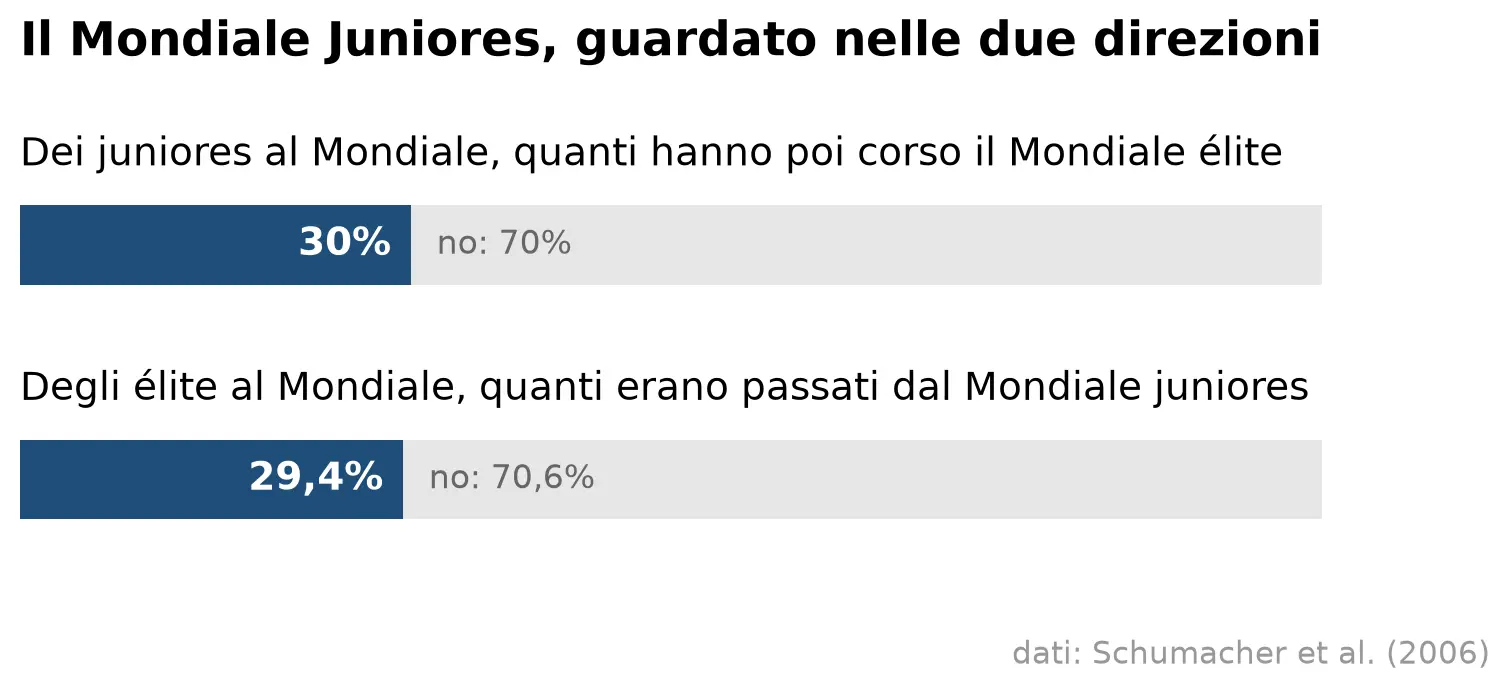
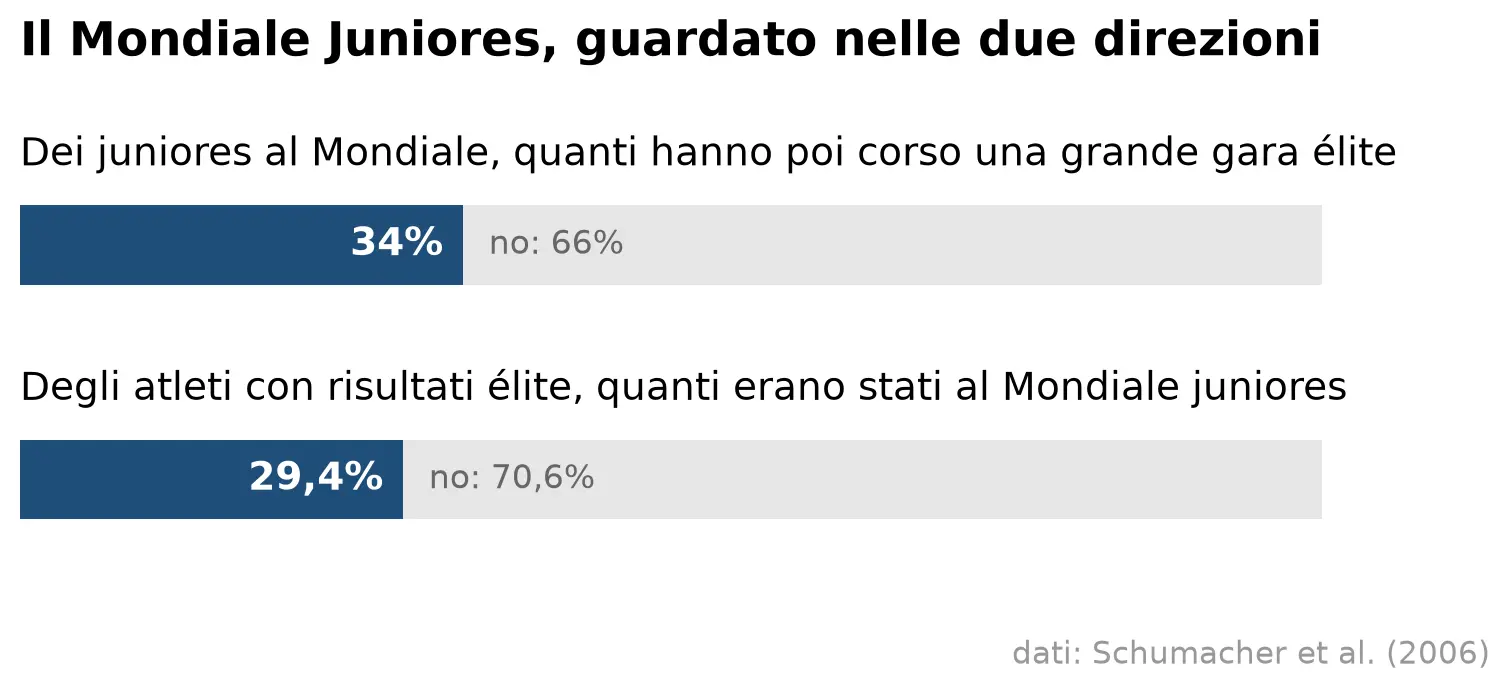
Revisione blog 1

Changed region(s): [[0.0934, 0.5166, 0.9026, 0.5774], [0.6536, 0.1823, 0.9338, 0.2431], [0.1868, 0.2735, 0.4358, 0.4255]]

diff --git a/content/blog/ciclismo-giovanile-cosa-sappiamo-gia.md b/content/blog/ciclismo-giovanile-cosa-sappiamo-gia.md
@@ -2,7 +2,7 @@
 lang: it
 locale: it_IT
 title: "Ciclismo giovanile e professionismo: cosa sappiamo già, e cosa no"
-description: "Vent'anni di studi sul passaggio dal ciclismo giovanile al professionismo: sette predestinati su dieci non arrivano, e sette arrivati su dieci non lo erano."
+description: "Vent'anni di studi sul passaggio dal ciclismo giovanile al professionismo: due predestinati su tre non arrivano, e sette arrivati su dieci non lo erano."
 date: 2026-09-07T10:00:00+02:00
 draft: true
 series: ["Ciclismo giovanile e professionismo"]
@@ -30,35 +30,37 @@ cover:
 
 *Questa serie parla dei ranking giovanili italiani e del passaggio al professionismo. Prima di tirare fuori i miei numeri mi sembrava giusto raccontare cosa la ricerca sa già, perché in vent'anni qualche risposta è arrivata, ed è abbastanza diversa da quella che si sente ripetere ai bordi delle strade.*
 
-Ai Mondiali juniores su strada ogni nazione porta **sei corridori**. Sei, su tutti i diciassettenni e diciottenni tesserati in quel paese, e chi ha corso da Juniores ricorda benissimo quanto sia difficile strappare una convocazione. Se arrivi a quella linea di partenza vuol dire che hai superato ogni selezione che il ciclismo giovanile riesca a mettere in piedi: più predestinato di così non si può.
+Al Mondiale juniores su strada ogni nazione porta una manciata di corridori: al massimo **sei**, e ci arrivano solo le nazioni in cima al ranking, mentre le altre ne portano meno. Una manciata su tutti i diciassettenni e diciottenni tesserati in quel paese, e chi ha corso da Juniores ricorda benissimo quanto sia difficile strappare una convocazione. Se arrivi a quella linea di partenza vuol dire che hai superato ogni selezione che il ciclismo giovanile riesca a mettere in piedi: più predestinato di così non si può.
 
 Eppure anche vincerla, quella gara, non è una garanzia di niente. Da quando esiste il Mondiale juniores su strada, **solo tre corridori hanno vinto sia quello sia il Mondiale élite**: Greg LeMond (juniores nel 1979, élite nel 1983 e nel 1989), Mathieu van der Poel (juniores nel 2013, élite nel 2023) e Remco Evenepoel, che è anche il corridore sul podio nella foto di copertina di questo articolo, scattata proprio ai Mondiali juniores di Innsbruck del 2018, l'anno in cui li vinse. Il suo Mondiale élite sarebbe arrivato quattro anni dopo, nel 2022.
 
-Nel 2006 un gruppo di ricercatori tedeschi[^schumacher] ha preso gli elenchi dei partecipanti a quei Mondiali e si è messo a seguirli negli anni, per contare quanti fossero poi arrivati a correre il Mondiale da grandi. **Trenta su cento**. Poi hanno guardato la stessa cosa al contrario, partendo dai corridori del Mondiale élite e chiedendosi quanti fossero passati da quello juniores: 29,4 su cento.
+Nel 2006 un gruppo di ricercatori tedeschi[^schumacher] ha raccolto i risultati delle grandi gare di venticinque anni di ciclismo — 27 454 risultati di 8 004 atleti di 108 paesi, dal 1980 al 2004, e non solo su strada — e ha guardato la stessa storia dai due lati. In avanti: dei ragazzi passati dal Mondiale juniores, quanti hanno poi corso una grande gara fra i grandi? **Trentaquattro su cento**. All'indietro: fra gli atleti con risultati nelle grandi gare élite, quanti erano passati dal Mondiale juniores? 29,4 su cento.
 
-Le due percentuali si somigliano per caso, però messe insieme dicono una cosa sola, e non è una cosa comoda. Andare forte da ragazzi non è indispensabile per arrivare, e non basta neanche lontanamente a garantirtelo. **Sette predestinati su dieci non ce la fanno, e sette arrivati su dieci non erano predestinati.** È il risultato più solido di tutta la ricerca sul tema ed è anche il più vecchio, visto che da allora nessuno è riuscito a smentirlo.
+Le due cifre rispondono a domande opposte e non misurano la stessa cosa, ma messe insieme dicono qualcosa che non è comodo. Andare forte da ragazzi non è indispensabile per arrivare in alto, e non basta neanche lontanamente a garantirtelo: **due predestinati su tre non correranno mai una grande gara da grandi, e sette su dieci di quelli che ci arrivano da quel Mondiale non erano passati**. È il risultato più replicato di tutta la ricerca sul tema ed è anche il più vecchio, e negli studi che ho letto nessuno lo ha smentito.
 
 {{< figure
   src="mondiale_juniores_2006.webp"
   alt="Due barre orizzontali, una per ciascuna direzione del confronto, riempite per circa un terzo, con la domanda scritta sopra ciascuna."
-  caption="Le due percentuali rispondono a domande opposte e si somigliano: sette predestinati su dieci non arrivano, e sette arrivati su dieci non erano predestinati."
+  caption="Le due percentuali rispondono a domande opposte, e nessuna delle due arriva a un terzo: la maggioranza resta fuori qualunque sia il lato da cui si guarda."
 >}}
 
 ## Cosa hanno stabilito vent'anni di ricerca
 
-Dal 2006 a oggi la domanda è stata ripresa in Norvegia, in Belgio, in Spagna, in Olanda e due volte in Italia, con dati sempre più grandi. Le conclusioni si assomigliano parecchio, il che nella ricerca è una buona notizia, perché vuol dire che non dipendono da chi ha fatto i conti.
+Dal 2006 a oggi la domanda è stata ripresa in Norvegia, in Belgio, in Spagna, in Olanda e due volte in Italia[^paesi], su campioni molto diversi fra loro — da ottomila atleti a poche decine. Le conclusioni si assomigliano parecchio, il che nella ricerca è una buona notizia, perché vuol dire che non dipendono da chi ha fatto i conti.
 
 Il punto su cui si discute meno è che **i futuri professionisti andassero già meglio degli altri da ragazzi**. Vale in Italia, in Belgio e in Norvegia, misurato da gruppi diversi con metodi diversi, ed è il risultato più replicato del campo.
 
-Il secondo è che **il segnale cresce man mano che ci si avvicina al traguardo**. Lo studio italiano più citato, quello di Gallo e colleghi del 2022 su 1&nbsp;345 corridori delle classifiche federali[^gallo], trova che i punti fatti in gara dicono qualcosa già dagli Allievi, ma dicono sempre di più salendo di categoria, e indica come momento più informativo il primo anno da Under 23.
+Il secondo è che **il segnale cresce man mano che ci si avvicina al traguardo**. Lo studio italiano più citato, quello di Gallo e colleghi del 2022 su 1&nbsp;345 corridori delle classifiche federali[^gallo], trova che i punti fatti in gara dicono qualcosa già dagli Allievi, che è la categoria da cui quello studio parte, ma dicono sempre di più salendo di categoria, e indica come momento più informativo il primo anno da Under 23.
 
-Sotto i quindici anni, invece, il sospetto è che non ci sia niente da vedere. Uno studio belga sui tredici e quattordicenni[^mostaert] ha misurato maturazione, coordinazione e capacità motorie, e ha scoperto che tutto insieme spiegava poco più di un quinto delle differenze fra i ragazzi, con maturità e coordinazione attorno al 5 per cento ciascuna. La lettura che se ne è ricavata è che a quell'età **si stia misurando soprattutto chi si è sviluppato prima**.
+Sotto i quindici anni, invece, il sospetto è che non ci sia niente da vedere. Uno studio belga sui tredici e quattordicenni[^mostaert] ha misurato maturazione, coordinazione, capacità motorie e anche la storia di gare di ciascuno, e ha scoperto che tutto insieme spiegava poco più di un quinto delle differenze nel loro rendimento in gara due o tre anni dopo, con maturità e coordinazione attorno al 5 per cento ciascuna. Un quinto del rendimento a sedici anni, si badi, non delle differenze fra quei ragazzi in generale e tanto meno della loro carriera. La lettura che se ne è ricavata è che a quell'età **si stia misurando soprattutto chi si è sviluppato prima**.
 
-Poi c'è il dato che torna ovunque, cioè che **la stragrande maggioranza di chi va forte da giovane non arriva comunque**: il 30 per cento dello studio tedesco, il 15 per cento degli Allievi italiani che poi faranno punti nel World Tour, i cinque su quarantotto dello studio olandese. Cambiano i paesi e le definizioni, non l'ordine di grandezza.
+Poi c'è il dato che torna ovunque, cioè che **la stragrande maggioranza di chi va forte da giovane non arriva comunque**. Vale la pena elencare i numeri con il loro denominatore attaccato, perché la tentazione di metterli in fila come se misurassero la stessa cosa è forte e porta fuori strada: due su tre dei juniores del Mondiale non correranno una grande gara élite, il 15 per cento dei primi dieci della classifica Allievi italiana ha poi fatto punti nel World Tour[^cesanelli] — e quello studio legge la mia stessa fonte, la stessa classifica di ciclismo.info, solo qualche anno più in su, e cinque su quarantotto di un'intera annata olandese sono arrivati a una squadra Continental o superiore[^hasselaar]. Tre punti di partenza diversi — i convocati, i primi dieci, tutti — e tre traguardi diversi. Quello che si somiglia non è la scala, è la direzione: da qualunque lato si guardi, la maggioranza resta fuori.
 
-Sui test di laboratorio la letteratura è quasi unanime[^menaspa], e vale la pena dirlo perché suona strano: la soglia e i watt per chilo descrivono bene il livello di un ragazzo adesso, ma **non aggiungono niente su dove arriverà**. Uno studio norvegese[^svendsen] ha messo a confronto le due famiglie di predittori sulle stesse persone, e il piazzamento in gara a diciotto anni ha battuto tutte le variabili fisiologiche.
+Sui test di laboratorio la letteratura tira quasi tutta nella stessa direzione[^menaspa], e vale la pena dirlo perché suona strano: la soglia e i watt per chilo descrivono bene il livello di un ragazzo adesso, ma **aggiungono poco su dove arriverà**. Uno studio norvegese[^svendsen] ha guardato le due famiglie di predittori sulle stesse persone e le ha trovate **entrambe** capaci di separare chi sarebbe arrivato da chi no; il confronto diretto fra le due, però, non l'ha fatto nessuno, perché i dati di laboratorio esistevano per una manciata di quegli atleti. È un buco della letteratura, non un verdetto a favore della gara.
 
-L'ultimo punto riguarda il mese di nascita. In tutte le popolazioni giovanili studiate i nati nei primi mesi dell'anno sono più di quanti la demografia ne giustifichi, però il vantaggio si assottiglia salendo di categoria e fra i professionisti sparisce. Uno studio su quasi tremila corridori delle squadre Continental[^voet] lo dice nel modo più tagliente possibile: **l'effetto si trova soprattutto fra chi non ce l'ha fatta**. Chi seleziona presto premia in modo sistematico la maturità anagrafica, e quella maturità non si converte in una carriera di successo.
+L'eccezione va nominata, perché è l'unica. Uno studio spagnolo su 65 Under 23[^valenzuela] ha trovato che una prova a cronometro di otto minuti separa bene chi diventerà professionista, e ha fatto una cosa che quasi nessuno fa, cioè dire quanti dei segnalati poi arrivano: il 54 per cento. Poco più della metà di quelli che il test manda avanti ce la fa, e si parla di ventenni già selezionatissimi, non di tredicenni. Regge quindi la frase prudente — a quell'età il laboratorio qualcosa dice — e non regge quella comoda, cioè che basti misurare.
+
+L'ultimo punto riguarda il mese di nascita, e va detto separando due cose che di solito si confondono. La prima è **chi entra**: nelle popolazioni giovanili studiate i nati nei primi mesi dell'anno sono più di quanti la demografia ne giustifichi, tanto più quanto più l'età è bassa, e già in Juniores lo squilibrio si assottiglia. La seconda è **chi arriva**: lì l'effetto non si trova, né fra i professionisti né nel confronto fra chi ha avuto successo e chi no. Uno studio su quasi tremila corridori delle squadre Continental[^voet] lo dice nel modo più tagliente possibile: l'effetto si trova soprattutto fra chi non ce l'ha fatta. Chi seleziona presto premia in modo sistematico la maturità anagrafica, e quella maturità non si converte in una carriera di successo.
 
 ## Cosa questi studi non dicono
 
@@ -66,15 +68,17 @@ Messe in fila, queste conclusioni portano a **una sintesi che sembra saggia e no
 
 Non è quello che dicono gli studi. Dicono che **conta e non basta**, che è una posizione molto più scomoda, perché non ti autorizza né a selezionare né a ignorare. Fra una misura inutile e una misura da usare con cautela c'è tutta la differenza del mondo, e quasi tutti gli usi sbagliati di questi dati nascono dal non tenerle distinte.
 
-C'è poi un problema più tecnico, e riguarda chi viene guardato. Uno studio italiano del 2024[^filipas] ha ricostruito le traiettorie di ottantuno professionisti per capire cosa distinguesse i migliori, e ha trovato pochissimo. Il motivo è che stava confrontando professionisti con altri professionisti: quando guardi soltanto chi ce l'ha fatta, le differenze che contavano sono già state consumate per decidere chi entrava nel campione, e quello che ti resta in mano è in gran parte rumore. È un errore così comune da avere un nome, cioè **condizionare su una variabile che dipende dal predittore**, ed è facile da dire e costoso da evitare, visto che significa andare a cercare anche quelli che non sono arrivati.
+C'è poi un problema più tecnico, e riguarda chi viene guardato. Uno studio italiano del 2024[^filipas] ha ricostruito le traiettorie di ottantuno professionisti per capire cosa distinguesse i migliori, e ha trovato molto poco: un solo segnale robusto, cioè che chi arriva in alto attraversa le categorie giovanili in fretta, e per il resto quasi niente di quello che cercava. Il motivo è che stava confrontando professionisti con altri professionisti: quando guardi soltanto chi ce l'ha fatta, le differenze che contavano sono già state consumate per decidere chi entrava nel campione, e quello che ti resta in mano è in gran parte rumore. È un errore così comune da avere un nome, *collider bias*: **si condiziona l'analisi su una variabile che dipende dal predittore**, e così facendo si cancella proprio la differenza che si voleva misurare. È facile da dire e costoso da evitare, visto che significa andare a cercare anche quelli che non sono arrivati.
 
 ## Il buco che questa serie prova a riempire
 
-**Nessuno ha mai guardato i tredici e quattordici anni partendo dai risultati di gara.** Gli studi italiani cominciano dagli Allievi; quello belga include gli Under 15, ma soltanto per chi aveva già almeno un piazzamento nei primi dieci; e lo studio sui tredicenni misurava test motori e non gare, con un esito a due o tre anni invece che la carriera.
+**Nessuno ha mai guardato i tredici e quattordici anni partendo dai risultati di gara**, su una popolazione ampia e non preselezionata. Gli studi italiani cominciano dagli Allievi; quello belga include gli Under 15, ma soltanto per chi aveva già almeno un piazzamento nei primi dieci, cioè per un gruppo scelto in partenza; e lo studio sui tredicenni misurava soprattutto test motori, con un esito a due o tre anni invece che la carriera.
 
 C'è poi una domanda che gli studi non si pongono, ed è **quanto ogni categoria aggiunga a quella prima**. Sapere che il segnale cresce con l'età non ti dice se l'Under 23 porti informazione nuova oppure se sia lo stesso segnale visto più da vicino, e per chi deve decidere quando guardare le due cose hanno conseguenze opposte.
 
 Manca infine il numero che servirebbe davvero. Gli studi riportano che la differenza è significativa, riportano odds ratio, ogni tanto correlazioni, ma nessuno studio basato sui risultati di gara **ha mai scritto quanti dei ragazzi segnalati poi arrivino**. È esattamente il numero che useresti per decidere, e in letteratura non c'è.
+
+Una cosa che invece è stata provata, e conviene sapere com'è andata, è buttarci dentro algoritmi più potenti. Ci hanno provato in due[^ml], su decine di migliaia di gare e con modelli di apprendimento automatico, e ne escono correlazioni attorno a 0,55 fra quello che il modello prevede e quello che poi succede: meglio del caso, lontanissimo da una previsione. Non è un problema di algoritmi, insomma, ed è bene metterlo agli atti prima che qualcuno proponga di risolverlo con l'intelligenza artificiale.
 
 Ci sono poi due cose che quasi nessuno dichiara, e che ho scoperto provando a rifare i conti da capo. La prima è quanti fossero all'inizio: le percentuali si calcolano sempre su gruppi già selezionati, cioè chi era al Mondiale, chi aveva un top 10, chi era a ranking, senza mai dire quanti fossero i ragazzi da cui quel gruppo è stato tirato fuori. La seconda è che **uscire da una classifica viene contato come smettere, e le due cose non coincidono**.
 
@@ -100,17 +104,26 @@ Prima di dirti quanti ce la fanno, però, devo dirti quanti sono. E la risposta 
 >
 > Questo post non contiene dati originali: riassume ventidue studi pubblicati fra il 2006 e il 2025.
 
-
 [^schumacher]: Schumacher Y.O. et al. (2006), *Success in elite cycling: a prospective and retrospective analysis of race results*, Journal of Sports Sciences 24(11), 1149-1156. DOI [10.1080/02640410500457299](https://doi.org/10.1080/02640410500457299).
+
+[^paesi]: Uno studio per paese, nell'ordine in cui li ho elencati: Svendsen e colleghi 2018 per la Norvegia, Mostaert e colleghi 2022 per il Belgio, Valenzuela e colleghi 2023 per la Spagna, Hasselaar ed Elferink-Gemser 2025 per l'Olanda, Gallo e colleghi 2022 e Cesanelli e colleghi 2022 per l'Italia. Tornano tutti più avanti con la loro cifra e il loro riferimento, tranne il belga, che qui non porta numeri: è Mostaert M. et al. (2022), *The importance of performance in youth competitions as an indicator of future success in cycling*, European Journal of Sport Science 22(4), 481-490, DOI [10.1080/17461391.2021.1877359](https://doi.org/10.1080/17461391.2021.1877359), e non va confuso con quello sulla coordinazione motoria degli stessi autori, citato più sotto. Lo studio spagnolo è l'unico dei sei a partire dai test di laboratorio invece che dai risultati di gara.
 
 [^gallo]: Gallo G. et al. (2022), *Do race results in youth competitions predict future success as a road cyclist? A retrospective study in the Italian Cycling Federation*, IJSPP 17(4), 621-626. DOI [10.1123/ijspp.2021-0297](https://doi.org/10.1123/ijspp.2021-0297).
 
-[^mostaert]: Mostaert M., Vansteenkiste P., Deconinck F.J.A., Lenoir M. (2022), *Is motor coordination the key to success in youth cycling?*, International Journal of Sports Physiology and Performance 17(10), 1489-1498. DOI [10.1123/ijspp.2021-0539](https://doi.org/10.1123/ijspp.2021-0539).
+[^mostaert]: Mostaert M. et al. (2022), *Is motor coordination the key to success in youth cycling?*, International Journal of Sports Physiology and Performance 17(10), 1489-1498. DOI [10.1123/ijspp.2021-0539](https://doi.org/10.1123/ijspp.2021-0539).
+
+[^cesanelli]: Cesanelli L. et al. (2022), *Transition from youth categories to elite cycling: relationships between early career performance and UCI World Tour success*, The Journal of Sports Medicine and Physical Fitness 62(12), 1577-1583. DOI [10.23736/S0022-4707.21.13244-X](https://doi.org/10.23736/S0022-4707.21.13244-X). Il criterio è il piazzamento nei primi dieci della classifica nazionale fra il 2007 e il 2013, con l'esito misurato fra il 2012 e il 2018; la fonte dei dati giovanili è la stessa di questo studio.
+
+[^hasselaar]: Hasselaar J.J., Elferink-Gemser M.T. (2025), *How to quantify youth cycling performance? Development of a method based on competition results*, Current Issues in Sport Science 10(1), articolo 012. DOI [10.36950/2025.10ciss012](https://doi.org/10.36950/2025.10ciss012). Ad accesso aperto.
 
 [^menaspa]: Menaspà P., Sassi A., Impellizzeri F.M. (2010), *Aerobic fitness variables do not predict the professional career of young cyclists*, Medicine & Science in Sports & Exercise 42(4), 805-812. DOI [10.1249/MSS.0b013e3181ba99bc](https://doi.org/10.1249/MSS.0b013e3181ba99bc).
 
+[^valenzuela]: Valenzuela P.L., Alejo L.B., Lucia A., Barranco-Gil D. (2023), *What does it take to become a professional cyclist? A laboratory-based longitudinal analysis in competitive young riders*, International Journal of Sports Physiology and Performance 18(11), 1275-1282. DOI [10.1123/ijspp.2023-0083](https://doi.org/10.1123/ijspp.2023-0083). Sessantacinque Under 23 spagnoli, sedici dei quali diventati professionisti; la soglia della prova di otto minuti è 5,6 watt per chilo.
+
 [^svendsen]: Svendsen I.S. et al. (2018), *Training, performance, and physiological predictors of a successful elite senior career in junior competitive road cyclists*, IJSPP 13(10), 1287-1292. DOI [10.1123/ijspp.2017-0824](https://doi.org/10.1123/ijspp.2017-0824).
+
+[^ml]: Van Bulck D., Vande Weghe A., Goossens D. (2023), *Result-based talent identification in road cycling: discovering the next Eddy Merckx*, Annals of Operations Research 325(1), 539-556, DOI [10.1007/s10479-021-04280-0](https://doi.org/10.1007/s10479-021-04280-0); e Janssens B., Bogaert M., Maton M. (2023), *Predicting the next Pogačar: a data analytical approach to detect young professional cycling talents*, Annals of Operations Research 325(1), 557-588, DOI [10.1007/s10479-021-04476-4](https://doi.org/10.1007/s10479-021-04476-4).
 
 [^voet]: Voet J., Lenoir M., Roelandt M., Bourgois J.G., Vansteenkiste P. (2022), *The role of the relative age effect on talent identification in professional road cycling*, Journal of Sports Sciences 40(19), 2159-2165. DOI [10.1080/02640414.2022.2144877](https://doi.org/10.1080/02640414.2022.2144877).
 
-[^filipas]: Filipas L., Gallo G., Codella R., La Torre A. (2024), *Performance trajectories of Italian professional cyclists: an analysis of the influence of youth performance on professional success*, International Journal of Performance Analysis in Sport. DOI [10.1080/24748668.2024.2398881](https://doi.org/10.1080/24748668.2024.2398881).
+[^filipas]: Filipas L., Vecchi S., Codella R., Boccia G., Brustio P.R. (2024), *Performance trajectories of Italian professional cyclists: an analysis of the influence of youth performance on professional success*, International Journal of Performance Analysis in Sport. DOI [10.1080/24748668.2024.2398881](https://doi.org/10.1080/24748668.2024.2398881).
